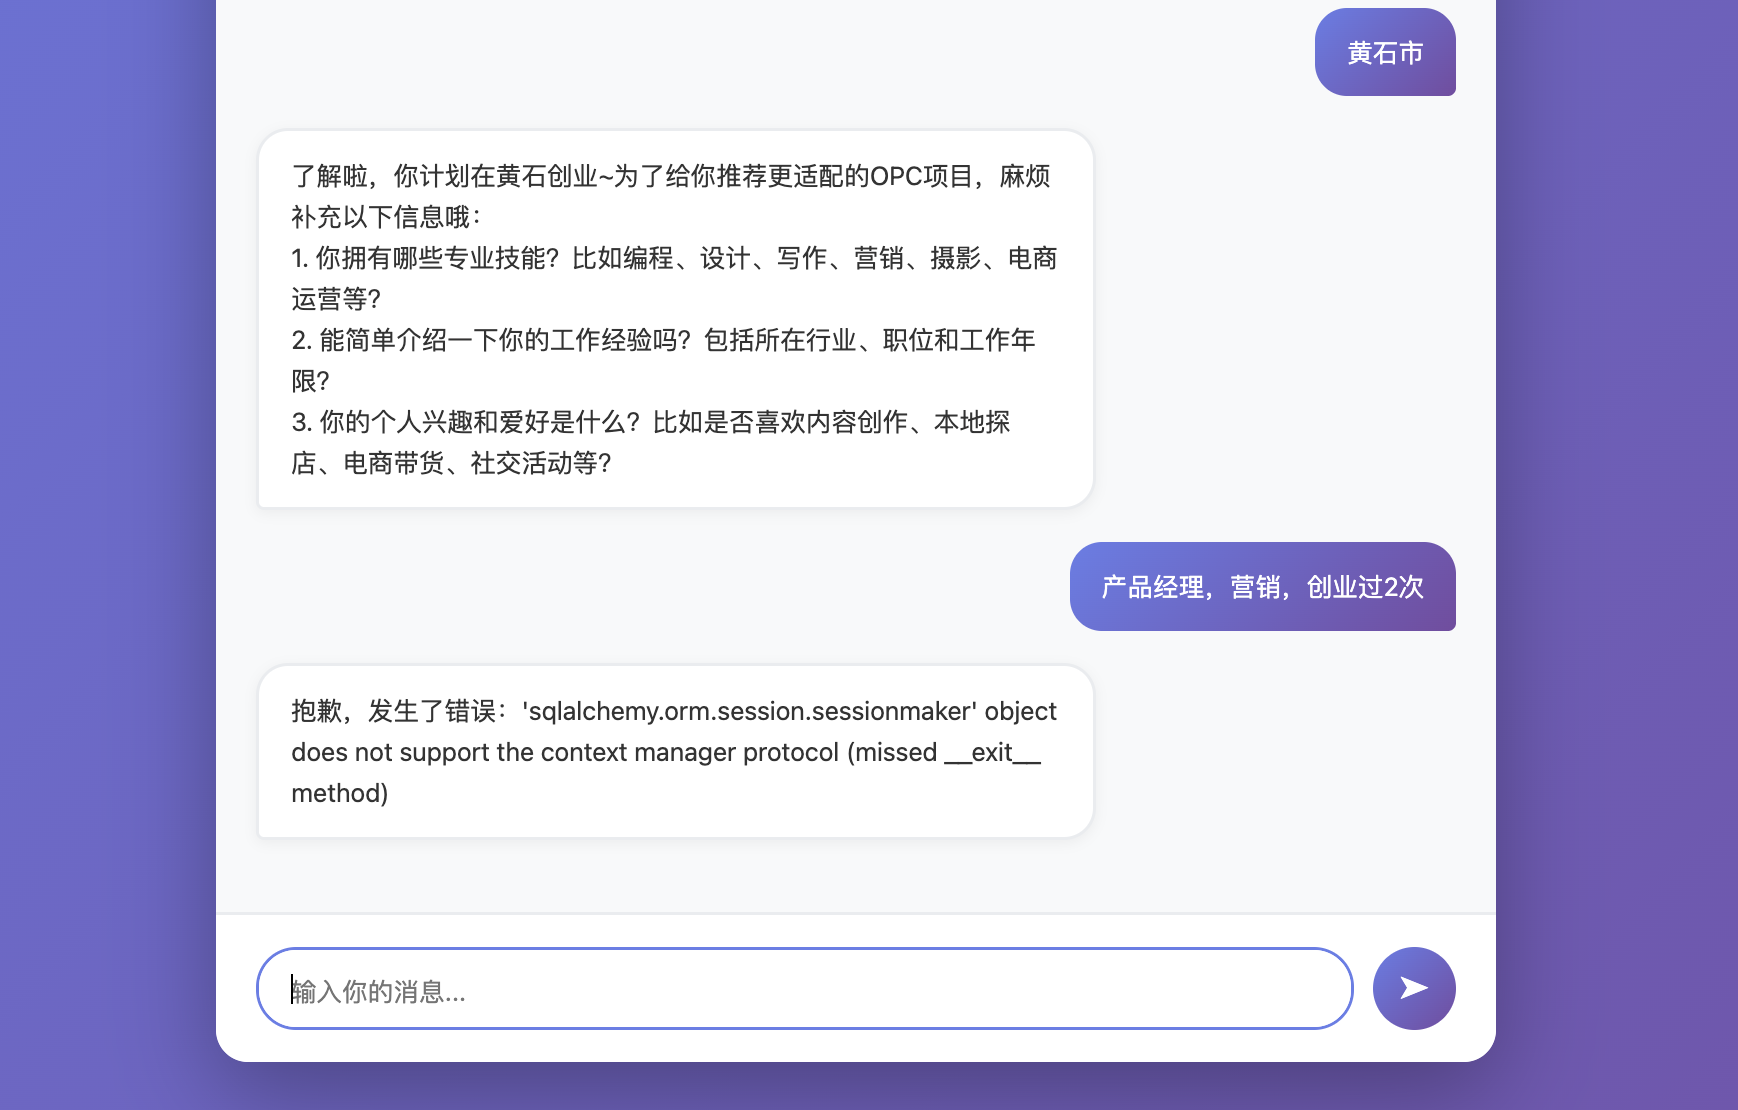
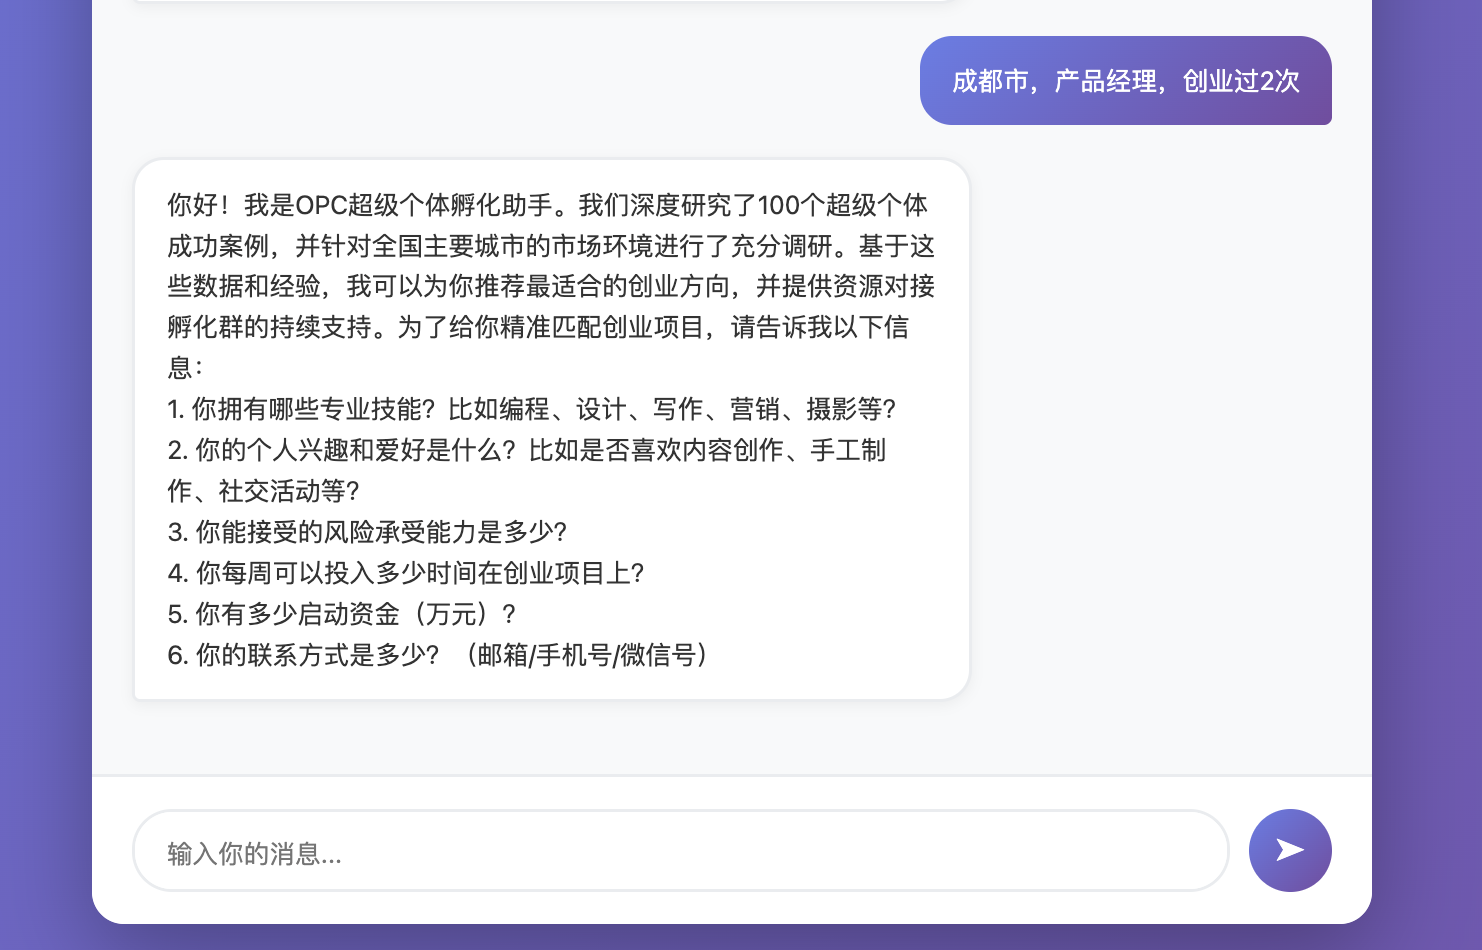
feat: 简化欢迎消息和分步引导对话
- 简化主页欢迎消息，只询问专业技能
- 修改 Agent System Prompt，改为分步引导
  - 第一步：询问专业技能
  - 第二步：询问个人兴趣
  - 第三步：询问可用资源
- 每次只问一个问题，避免一次性列出多个问题给用户造成压力

Changed region(s): [[0.031, 0.0, 0.9312, 1.0]]

diff --git a/src/main_flask.py b/src/main_flask.py
@@ -522,50 +522,17 @@ def index():
                 <!-- 欢迎消息 -->
                 <div class="message assistant">
                     <div class="message-bubble">
-                        🔥 2025年，你是否也有这样的焦虑？<br><br>
-                        ❌ 35岁职场危机越来越近，裁员潮一波接一波<br>
-                        ❌ 工资涨幅跑不赢通胀，存款缩水<br>
-                        ❌ 每天加班到深夜，却看不到未来<br>
-                        ❌ 想改变，但不知道从哪里开始<br>
-                        ❌ 看着别人副业月入过万，自己却毫无头绪<br><br>
+                        👋 <strong>你好！我是你的 OPC 超级个体孵化助手</strong><br><br>
+                        🔥 我会帮你找到最适合的创业项目，提供从0到1的全程指导<br><br>
                         ---<br><br>
-                        🚀 但你有没有发现，身边越来越多的人开始做OPC（超级个体）？<br><br>
-                        <strong>这些真实案例就在你身边：</strong><br>
-                        - 小张，30岁，程序员 → AI提示词工程师，月收入3万+<br>
-                        - 小李，28岁，财务 → 自媒体账号，粉丝10万，月广告收入2万<br>
-                        - 小王，35岁，传统销售 → 个人IP打造，年入50万+<br>
-                        - 小陈，32岁，普通宝妈 → 在线课程，月收入1.5万<br><br>
-                        <strong>这，就是OPC创业的红利！</strong><br><br>
-                        ---<br><br>
-                        🎯 为什么现在是OPC创业的黄金时期？<br><br>
-                        ✅ <strong>技术门槛降低</strong>：AI工具让一个人可以干10个人的活<br>
-                        ✅ <strong>市场碎片化</strong>：小众需求爆发，精准变现更容易<br>
-                        ✅ <strong>平台红利期</strong>：短视频、知识付费、直播带货流量巨大<br>
-                        ✅ <strong>成本低风险小</strong>：轻资产运营，试错成本极低<br>
-                        ✅ <strong>收入不封顶</strong>：没有职场天花板，完全看你的能力<br><br>
-                        ---<br><br>
-                        💡 <strong>我是谁？为什么能帮你？</strong><br><br>
-                        我是你的OPC超级个体孵化助手。<br><br>
-                        我由<strong>超过10年创业经验的产品经理</strong>打造而来，深度研究了<strong>100个OPC成功案例</strong>，覆盖了IT、内容创作、电商、咨询、教育等20+个领域。<br><br>
-                        我会<strong>深度分析你的个人特点</strong>：<br>
-                        - 你的专业技能如何转化为创业优势<br>
-                        - 你所在城市的商业机会和竞争格局<br>
-                        - 适合你的创业赛道和变现模式<br>
-                        - 从0到1的详细执行路径<br><br>
-                        ---<br><br>
-                        🤔 <strong>想不想知道：</strong><br><br>
-                        1⃣ 以你的技能和经验，最适合做什么OPC项目？<br>
-                        2⃣ 你所在的城市，有哪些未被发现的商业机会？<br>
-                        3⃣ 如何在3个月内，从0开始实现月入过万？<br>
-                        4⃣ 具体需要准备什么？有哪些坑要避开？<br><br>
-                        <strong>别再焦虑了，行动起来！</strong><br><br>
-                        告诉我：<br>
-                        - 📍 <strong>你在哪个城市？</strong><br>
-                        - 💼 <strong>你会什么技能？</strong><br>
-                        - 🎯 <strong>你想通过OPC解决什么问题？</strong><br><br>
-                        我会为你量身定制创业方案，并对接资源孵化群，全程陪伴你从0到1！<br><br>
-                        ---<br><br>
-                        💬 <strong>现在就开始吧，告诉我你的情况，我们一起开启你的OPC创业之旅！</strong>
+                        为了给你精准推荐，我需要先了解一些你的情况。别担心，我们一步一步来，每次只聊一个话题～<br><br>
+                        💬 <strong>现在，请告诉我：</strong><br><br>
+                        <strong>你有哪些专业技能？</strong><br>
+                        （比如：编程、设计、写作、营销、摄影、电商运营、销售等）<br><br>
+                        请直接告诉我你的技能，我会继续了解你的兴趣和资源！
+                    </div>
+                </div><br><br>
+
                     </div>
                 </div>
             </div>
